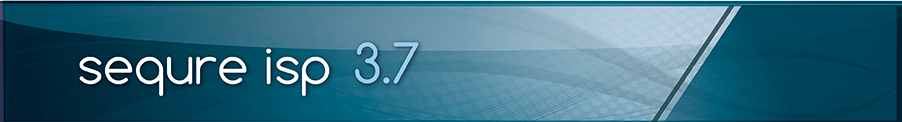
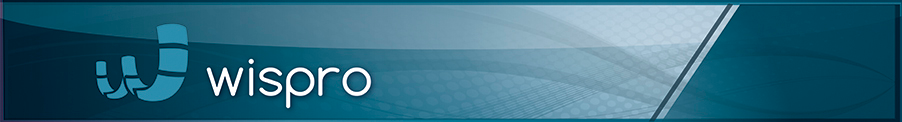
Change name to wispro

diff --git a/public/500.pt.html b/public/500.pt.html
@@ -19,13 +19,13 @@
 <body>
   <!-- This file lives in public/500.html -->
   <div class="dialog">
-    <IMG SRC="/images/logo.png"  ALT="SequreISP" WIDTH=250 HEIGHT=250>
+    <IMG SRC="/images/logo.png"  ALT="Wispro" WIDTH=250 HEIGHT=250>
     <h1><b>Houve um problema de servir a página solicitada.</b></h1>
     <p><b>Geralmente isso significa que um erro inesperado aconteceu durante o processamento de seu pedido. Aqui está o que você pode tentar em seguida:</b></p>
 
     <p><a href="500.html">Atualizar esta página</a>, o problema pode ser temporário.</p>
     <p>Se o problema
-    persistir, <a href="http://www.sequreisp.com/portal/issues/new">entre em contato</a> e nós vamos ajudá-lo em seu caminho.</p>
+    persistir, <a href="http://www.wispro.co/portal/issues/new">entre em contato</a> e nós vamos ajudá-lo em seu caminho.</p>
   </div>
 </body>
 </html>

diff --git a/public/500.en.html b/public/500.en.html
@@ -19,13 +19,13 @@
 <body>
   <!-- This file lives in public/500.html -->
   <div class="dialog">
-    <IMG SRC="/images/logo.png"  ALT="SequreISP" WIDTH=250 HEIGHT=250>
+    <IMG SRC="/images/logo.png"  ALT="Wispro" WIDTH=250 HEIGHT=250>
     <h1><b>There was a problem serving the requested page.</b></h1>
     <p><b>Usually this means that an unexpected error happened while processing
     your request. Here's what you can try next:</b></p>
 
     <p><a href="500.html">Refresh this page</a>, the problem may be temporary.</p>
-    <p>If the problem persist, <a href="http://www.sequreisp.com/portal/issues/new">contact us</a> and we'll help get you on you way.</p>
+    <p>If the problem persist, <a href="http://www.wispro.co/portal/issues/new">contact us</a> and we'll help get you on you way.</p>
   </div>
 </body>
 </html>

diff --git a/public/500.es.html b/public/500.es.html
@@ -19,7 +19,7 @@
 <body>
   <!-- This file lives in public/500.html -->
   <div class="dialog">
-    <IMG SRC="/images/logo.png"  ALT="SequreISP" WIDTH=250 HEIGHT=250>
+    <IMG SRC="/images/logo.png"  ALT="Wispro" WIDTH=250 HEIGHT=250>
       <h1><b>Algo salio mal con la pagina solicitada.</b></h1>
     <p><b>Usualmente esto significa que se produjo un error inesperado
     mientras se procesaba la solicitud. Pruebe las siguientes
@@ -28,7 +28,7 @@
     <p><a href="500.html">Recargar la pagina</a>, tal vez el problema es solo
       temporal.</p>
     <p>Si el problema
-    persiste, <a href="http://www.sequreisp.com/portal/issues/new">Contactenos</a>
+    persiste, <a href="http://www.wispro.co/portal/issues/new">Contactenos</a>
     por medio de nuestro portal notificando el problema.</p>
   </div>
 </body>

diff --git a/app/models/user.rb b/app/models/user.rb
@@ -33,7 +33,7 @@ class User < ActiveRecord::Base
     :current_login_ip,
     :last_login_ip
   ]
-  
+
   # aegis role
   has_role
   validates_role
@@ -42,7 +42,7 @@ class User < ActiveRecord::Base
   validate_on_update :not_change_if_demo
 
   def not_change_if_demo
-    if SequreispConfig::CONFIG["demo"] and email_was == "admin@sequre.com.ar"
+    if SequreispConfig::CONFIG["demo"] and email_was == "admin@wispro.co"
       errors.add(:password, I18n.t('validations.user.not_allowed_to_change_this_fields_in_demo_mode')) if password_changed?
       errors.add(:email, I18n.t('validations.user.not_allowed_to_change_this_fields_in_demo_mode')) if email_changed?
       errors.add(:role_name, I18n.t('validations.user.not_allowed_to_change_this_fields_in_demo_mode')) if role_name_changed?
@@ -60,7 +60,7 @@ class User < ActiveRecord::Base
     [I18n.t("selects.user.role_name.technical_readonly"),"technical_readonly"],
     [I18n.t("selects.user.role_name.administrative"),"administrative"],
     [I18n.t("selects.user.role_name.administrative_readonly"),"administrative_readonly"]
-    ]  
+    ]
   end
 
   def self.default_paths_for_users

diff --git a/app/models/configuration.rb b/app/models/configuration.rb
@@ -17,7 +17,7 @@
 
 class Configuration < ActiveRecord::Base
   ACCEPTED_LOCALES = ["es","en","pt"]
-  GUIDES_URL = "http://doc.sequreisp.com/index.php?title=P%C3%A1gina_principal"
+  GUIDES_URL = "http://doc.wispro.co/index.php?title=P%C3%A1gina_principal"
 
   PATH_POSTFIX = Rails.env.production? ? "/etc/postfix/main.cf" : "/tmp/main.cf"
   PATH_SASL_PASSWD = Rails.env.production? ? "/etc/postfix/sasl_passwd" : "/tmp/sasl_passwd"
@@ -32,7 +32,7 @@ class Configuration < ActiveRecord::Base
   include IpAddressCheck
   include ModelsWatcher
   watch_fields :default_tcp_prio_ports, :default_udp_prio_ports, :default_prio_protos, :default_prio_helpers,
-               :mtu, :quantum_factor, :nf_conntrack_max, :gc_thresh1, :gc_thresh2, :gc_thresh3,               
+               :mtu, :quantum_factor, :nf_conntrack_max, :gc_thresh1, :gc_thresh2, :gc_thresh3,
                :tc_contracts_per_provider_in_lan, :tc_contracts_per_provider_in_wan,
                :filter_by_mac_address, :clamp_mss_to_pmtu, :use_global_prios, :use_global_prios_strategy,
                :iptables_tree_optimization_enabled,

diff --git a/app/controllers/users_controller.rb b/app/controllers/users_controller.rb
@@ -92,7 +92,7 @@ class UsersController < ApplicationController
   # DELETE /users/1.xml
   def destroy
     @user = object
-    unless SequreispConfig::CONFIG["demo"] and @user.email == "admin@sequre.com.ar"
+    unless SequreispConfig::CONFIG["demo"] and @user.email == "admin@wispro.co"
       @user.destroy
     end
     respond_to do |format|

diff --git a/lib/hooks_helper.rb b/lib/hooks_helper.rb
@@ -62,7 +62,7 @@ module HooksHelper
   end
 
   def link_footer_extension
-  "<a href='http://www.wispro.co'>sequreisp.com</a>".html_safe
+  "<a href='http://www.wispro.co'>wispro.co</a>".html_safe
   end
 
   def heading_name

diff --git a/app/helpers/application_helper.rb b/app/helpers/application_helper.rb
@@ -78,7 +78,7 @@ module ApplicationHelper
   end
 
   def support_url
-    "http://www.sequreisp.com/portal/issues/new?locale=#{I18n.locale}"
+    "http://www.wispro.co/portal/issues/new?locale=#{I18n.locale}"
   end
 
 end
